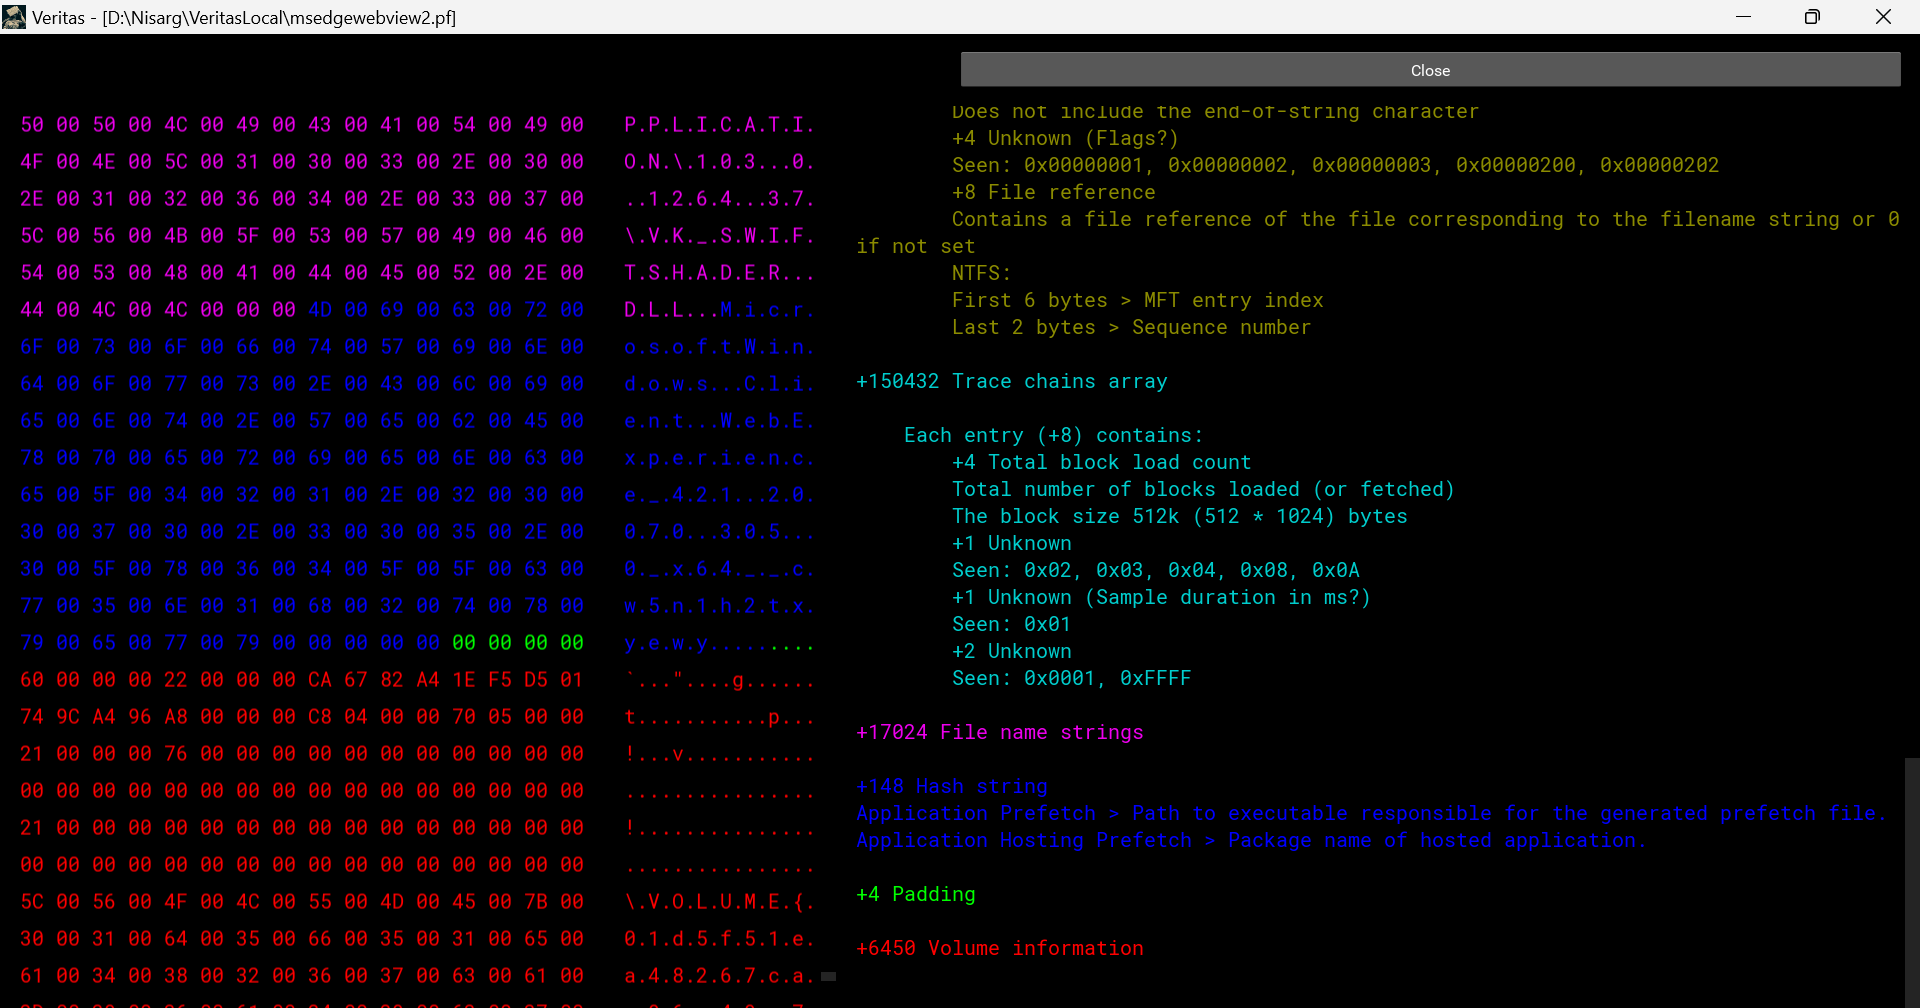
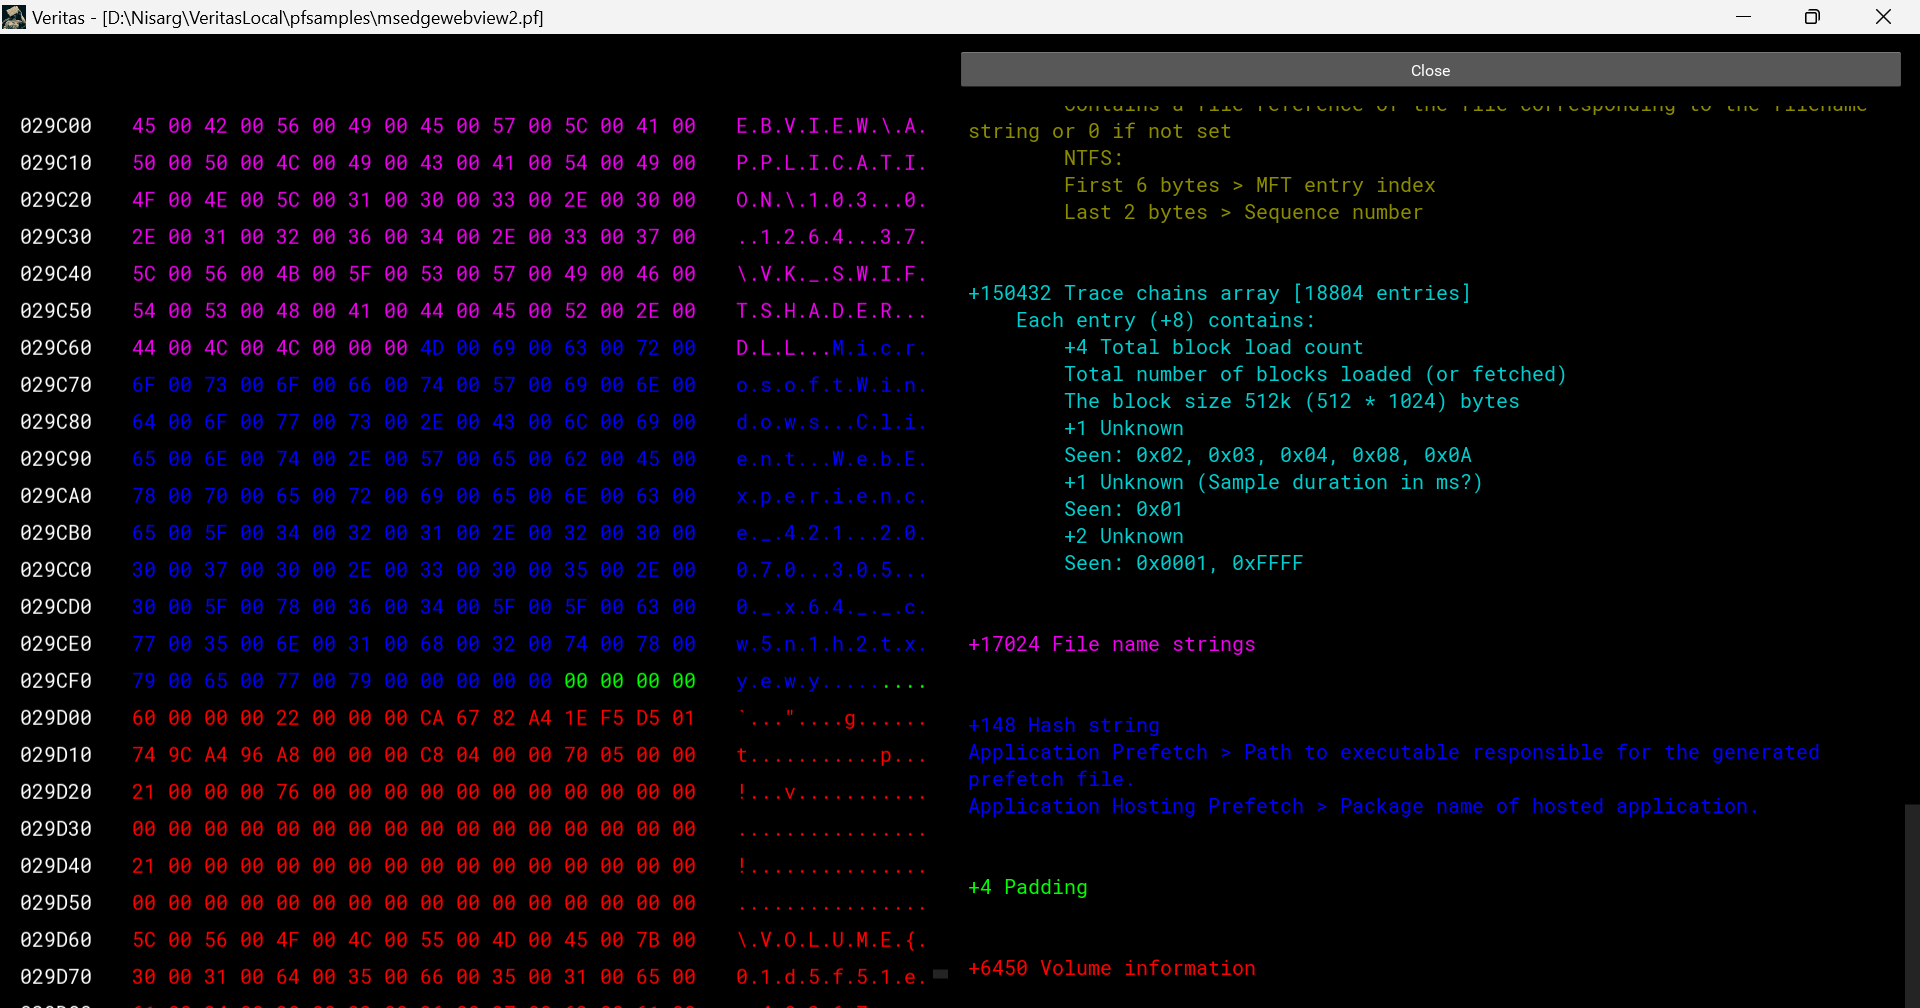
Add Offset Column + Optimizations

diff --git a/prefetch.py b/prefetch.py
@@ -13,16 +13,13 @@ def prefetchTemplate(file_path):
 	prefetchsizes = []
 	prefetchmarkers = []
 
-	getdata = readFile(file_path)
-	formattedhexdata = getdata[0]
-	formattedasciidata = getdata[1]
-	hexdata = getdata[2]
+	formattedhexdata, formattedasciidata, hexdata = readFile(file_path)
 #######################################################################################################
 	# COMMON SECTION. #
 	###################
 	fileheader = [[1, 4], [5, 4], [9, 4], [13, 4], [17, 60], [77, 4], [81, 4]]
 	fileheadersize = 84
-	prefetchmarkers.append("+4  Format version    \n17 (0x11) > Windows XP, Windows 2003    \n23 (0x17) > Windows Vista, Windows 7    \n26 (0x1A) > Windows 8.1    \n30 (0x1E) > Windows 10\n")
+	prefetchmarkers.append("+4  Format version    \n    17 (0x00000011) > Windows XP, Windows 2003    \n    23 (0x00000017) > Windows Vista, Windows 7    \n    26 (0x0000001A) > Windows 8.1    \n    30 (0x0000001E) > Windows 10\n")
 	prefetchmarkers.append("\n+4  Signature\n")
 	prefetchmarkers.append("\n+4  Unknown\nSeen: 0x0000000F, 0x00000011\n")
 	prefetchmarkers.append("\n+4  File size\n")
@@ -30,7 +27,7 @@ def prefetchTemplate(file_path):
 	prefetchmarkers.append("\n+4 Prefetch hash\nThis value should correspond with the hash in the Prefetch filename\n")
 	prefetchmarkers.append("\n+4 Unknown (flags?)\n0x01 > is boot prefetch\n(Seen in: NTOSBOOT-B00DFAAD.pf, Op-EXPLORER.EXE-A80E4F97-000000F5.pf)\n")
 
-	prefetchmarkers.append("\n+4 File metrics array offset\nThe offset is relative to the start of the file\n0x98 > Version 17\n0xF0 > Version 23\n0x3001 > Version 26\n0x3001 > Version 30, Variant 1\n0x2801 > Version 30, Variant 2\n")
+	prefetchmarkers.append("\n+4 File metrics array offset\n    The offset is relative to the start of the file\n    0x00000098 > Version 17\n    0x000000F0 > Version 23\n    0x00000130 > Version 26\n    0x00000130 > Version 30, Variant 1\n    0x00000128 > Version 30, Variant 2\n")
 	prefetchmarkers.append("\n+4 Number of file metrics entries\n")
 	prefetchmarkers.append("\n+4 Trace chains array offset\nThe offset is relative to the start of the file\n")
 	prefetchmarkers.append("\n+4 Number of trace chains array entries\n")
@@ -40,9 +37,9 @@ def prefetchTemplate(file_path):
 	prefetchmarkers.append("\n+4 Number of volumes\n")
 	prefetchmarkers.append("\n+4 Volumes information size\n")
 
-	sharedFileMetricsByVer232630 = "\n    Each entry (+32) contains:\n        +4 Unknown (Prefetch start time in ms?)\n        Could be the index into the trace chain array as well, is this relationship implicit or explicit?\n        +4 Unknown (Prefetch duration in ms?)\n        Could be the number of entries in the trace chain as well, is this relationship implicit or explicit?\n        +4 Unknown (Average prefetch duration in ms?)\n        +4 Filename string offset\n        The offset is relative to the start of the filename strings\n        +4 Filename string number of characters\n        Does not include the end-of-string character\n        +4 Unknown (Flags?)\n        Seen: 0x00000001, 0x00000002, 0x00000003, 0x00000200, 0x00000202\n        +8 File reference\n        Contains a file reference of the file corresponding to the filename string or 0 if not set\n        NTFS:\n        First 6 bytes > MFT entry index\n        Last 2 bytes > Sequence number\n"
+	sharedFileMetricsByVer232630 = "    Each entry (+32) contains:\n        +4 Unknown (Prefetch start time in ms?)\n        Could be the index into the trace chain array as well, is this relationship implicit or explicit?\n        +4 Unknown (Prefetch duration in ms?)\n        Could be the number of entries in the trace chain as well, is this relationship implicit or explicit?\n        +4 Unknown (Average prefetch duration in ms?)\n        +4 Filename string offset\n        The offset is relative to the start of the filename strings\n        +4 Filename string number of characters\n        Does not include the end-of-string character\n        +4 Unknown (Flags?)\n        Seen: 0x00000001, 0x00000002, 0x00000003, 0x00000200, 0x00000202\n        +8 File reference\n        Contains a file reference of the file corresponding to the filename string or 0 if not set\n        NTFS:\n        First 6 bytes > MFT entry index\n        Last 2 bytes > Sequence number\n"
 
-	sharedTraceChainsByVer172326 = "\n    Each entry (+12) contains:\n        +4 Next array entry index\n        Contains the next trace chain array entry index in the chain, where the first entry index starts with 0, or -1 (0xFFFFFFFF) for the end-of-chain.\n        +4 Total block load count\n        Total number of blocks loaded (or fetched)\n        The block size 512k (512 * 1024) bytes\n        +1 Unknown\n        Seen: 0x02, 0x03, 0x04, 0x08, 0x0A\n        +1 Unknown (Sample duration in ms?)\n        Seen: 0x01\n        +2 Unknown\n        Seen: 0x0001, 0xFFFF\n"
+	sharedTraceChainsByVer172326 = "    Each entry (+12) contains:\n        +4 Next array entry index\n        Contains the next trace chain array entry index in the chain, where the first entry index starts with 0, or -1 (0xFFFFFFFF) for the end-of-chain.\n        +4 Total block load count\n        Total number of blocks loaded (or fetched)\n        The block size 512k (512 * 1024) bytes\n        +1 Unknown\n        Seen: 0x02, 0x03, 0x04, 0x08, 0x0A\n        +1 Unknown (Sample duration in ms?)\n        Seen: 0x01\n        +2 Unknown\n        Seen: 0x0001, 0xFFFF\n"
 
 ######################################################################
 	# VERSION SPECIFIC. #
@@ -70,12 +67,12 @@ def prefetchTemplate(file_path):
 			
 			filemetricssize = numberoffilemetricsentries * 20
 			filemetrics = [[1, filemetricssize]]
-			prefetchmarkers.append("\n+{} File metrics array\n\n    Each entry (+20) contains:\n        +4 Unknown (Prefetch start time in ms?)\n        Could be the index into the trace chain array as well, is this relationship implicit or explicit?\n        +4 Unknown (Prefetch duration in ms?)\n        Could be the number of entries in the trace chain as well, is this relationship implicit or explicit?\n        +4 Filename string offset\n        The offset is relative to the start of the filename strings\n        +4 Filename string number of characters\n        Does not include the end-of-string character\n        +4 Unknown (Flags?)\n".format(filemetricssize))
+			prefetchmarkers.append("\n+{} File metrics array [{} entries]\n    Each entry (+20) contains:\n        +4 Unknown (Prefetch start time in ms?)\n        Could be the index into the trace chain array as well, is this relationship implicit or explicit?\n        +4 Unknown (Prefetch duration in ms?)\n        Could be the number of entries in the trace chain as well, is this relationship implicit or explicit?\n        +4 Filename string offset\n        The offset is relative to the start of the filename strings\n        +4 Filename string number of characters\n        Does not include the end-of-string character\n        +4 Unknown (Flags?)\n".format(filemetricssize, numberoffilemetricsentries))
 
 			tracechainssize = numberoftracechainsentries * 12
 			tracechains = [[1, tracechainssize]]
 
-			prefetchmarkers.append("\n+{} Trace chains array\n".format(tracechainssize)+sharedTraceChainsByVer172326)
+			prefetchmarkers.append("\n+{} Trace chains array [{} entries]\n".format(tracechainssize, numberoftracechainsentries)+sharedTraceChainsByVer172326)
 
 		case "17000000":
 			# Was Vista or 7 > PFV 23
@@ -89,10 +86,10 @@ def prefetchTemplate(file_path):
 			prefetchmarkers.append("\n+80 Unknown (Empty values)\n")
 			filemetricssize = numberoffilemetricsentries * 32
 			filemetrics = [[1, filemetricssize]]
-			prefetchmarkers.append("\n+{} File metrics array\n".format(filemetricssize)+sharedFileMetricsByVer232630)
+			prefetchmarkers.append("\n+{} File metrics array [{} entries]\n".format(filemetricssize, numberoffilemetricsentries)+sharedFileMetricsByVer232630)
 			tracechainssize = numberoftracechainsentries * 12
 			tracechains = [[1, tracechainssize]]
-			prefetchmarkers.append("\n+{} Trace chains array\n".format(tracechainssize)+sharedTraceChainsByVer172326)
+			prefetchmarkers.append("\n+{} Trace chains array [{} entries]\n".format(tracechainssize, numberoftracechainsentries)+sharedTraceChainsByVer172326)
 
 		case "1A000000":
 			# Was 8.1 > PFV 26
@@ -107,10 +104,10 @@ def prefetchTemplate(file_path):
 			prefetchmarkers.append("\n+88 Unknown (Empty values)\n")
 			filemetricssize = numberoffilemetricsentries * 32
 			filemetrics = [[1, filemetricssize]]
-			prefetchmarkers.append("\n+{} File metrics array\n".format(filemetricssize)+sharedFileMetricsByVer232630)
+			prefetchmarkers.append("\n+{} File metrics array [{} entries]\n".format(filemetricssize, numberoffilemetricsentries)+sharedFileMetricsByVer232630)
 			tracechainssize = numberoftracechainsentries * 12
 			tracechains = [[1, tracechainssize]]
-			prefetchmarkers.append("\n+{} Trace chains array\n".format(tracechainssize)+sharedTraceChainsByVer172326)
+			prefetchmarkers.append("\n+{} Trace chains array [{} entries]\n".format(tracechainssize, numberoftracechainsentries)+sharedTraceChainsByVer172326)
 
 		case "1E000000":
 			# Was 10 or 11 > PFV 30
@@ -153,7 +150,7 @@ def prefetchTemplate(file_path):
 				prefetchmarkers.append("\n+84 Unknown (Empty values)\n")
 			filemetricssize = numberoffilemetricsentries * 32
 			filemetrics = [[1, filemetricssize]]
-			prefetchmarkers.append("\n+{} File metrics array\n".format(filemetricssize)+sharedFileMetricsByVer232630)
+			prefetchmarkers.append("\n+{} File metrics array [{} entries]\n".format(filemetricssize, numberoffilemetricsentries)+sharedFileMetricsByVer232630)
 
 			if hashstringexists:
 				hashstringoffsetlocation = fileheadersize + fileinfosize - 76 - 4 - 4
@@ -164,7 +161,7 @@ def prefetchTemplate(file_path):
 			tracechainssize = numberoftracechainsentries * 8
 			tracechains = [[1, tracechainssize]]
 			
-			prefetchmarkers.append("\n+{} Trace chains array\n\n    Each entry (+8) contains:\n        +4 Total block load count\n        Total number of blocks loaded (or fetched)\n        The block size 512k (512 * 1024) bytes\n        +1 Unknown\n        Seen: 0x02, 0x03, 0x04, 0x08, 0x0A\n        +1 Unknown (Sample duration in ms?)\n        Seen: 0x01\n        +2 Unknown\n        Seen: 0x0001, 0xFFFF\n".format(tracechainssize))
+			prefetchmarkers.append("\n+{} Trace chains array [{} entries]\n    Each entry (+8) contains:\n        +4 Total block load count\n        Total number of blocks loaded (or fetched)\n        The block size 512k (512 * 1024) bytes\n        +1 Unknown\n        Seen: 0x02, 0x03, 0x04, 0x08, 0x0A\n        +1 Unknown (Sample duration in ms?)\n        Seen: 0x01\n        +2 Unknown\n        Seen: 0x0001, 0xFFFF\n".format(tracechainssize, numberoftracechainsentries))
 
 	sumtilltracechains = fileheadersize + fileinfosize + filemetricssize + tracechainssize	
 	sumtillfilenamestrings = filenamestringssize + filenamestringsoffset

diff --git a/loader.py b/loader.py
@@ -5,9 +5,10 @@ from primer import *
 	# TODO: #
 	#########
 
-def loadFile(file_path, callback, popup):
+def loadFile(file_path, bytecount, callback, popup):
 	first = []
 	second = []
+	offsetdata = getOffsets(int(bytecount))
 	hexdata = []
 	asciidata = []
 	templatedata = []
@@ -21,25 +22,13 @@ def loadFile(file_path, callback, popup):
 
 	if isPrefetch(hexdata):
 		artifactsupported = True
-		prefetch = prefetchTemplate(file_path)
-		hexdata = prefetch[0]
-		asciidata = prefetch[1]
-		templatedata = prefetch[2]
-		markerdata = prefetch[3]
+		hexdata, asciidata, templatedata, markerdata = prefetchTemplate(file_path)
 	elif isMFT(hexdata):
 		artifactsupported = True
-		mft = mftTemplate(file_path)
-		hexdata = mft[0]
-		asciidata = mft[1]
-		templatedata = mft[2]
-		markerdata = mft[3]
+		hexdata, asciidata, templatedata, markerdata = mftTemplate(file_path)
 	elif isRegistry(hexdata):
 		artifactsupported = True
-		registry = registryTemplate(file_path)
-		hexdata = registry[0]
-		asciidata = registry[1]
-		templatedata = registry[2]
-		markerdata = registry[3]
+		hexdata, asciidata, templatedata, markerdata = registryTemplate(file_path)
 	else:
 		callback(first, second, artifactsupported, file_path, popup)
 
@@ -95,15 +84,11 @@ def loadFile(file_path, callback, popup):
 		hexdata = fixHex(hexdata)
 		asciidata = fixAscii(asciidata)
 
-		# Construct a dictionary for RecycleViews.
-		def joinHexAscii(hdata, adata):
-			return {"hextext": hdata, "asciitext": adata}
-
-		# Combine hex and ascii for a single RecycleView so they share common scrolling.
-		for h, a in zip(hexdata.split("\n"), asciidata.split("\n")):
-			first.append(joinHexAscii(h, a))
-		# 
-		second = [{"text": "{}".format(line)} for line in markerdata.split("\t")]
+		# Combine offset, hex and ascii for a single RecycleView so they share common scrolling.
+		for o, h, a in zip(offsetdata, hexdata.split("\n"), asciidata.split("\n")):
+			first.append(joinOffsetHexAscii(o, h, a))
+		# Again leveraging Kivy not minding missing closing color tags, markerdata is split on it.
+		second = [{"text": "{}".format(line)} for line in markerdata.split("[/color]")]
 		callback(first, second, artifactsupported, file_path, popup)
 #######################################################################################################
 

diff --git a/primer.py b/primer.py
@@ -24,7 +24,7 @@ def listToString(s):
 def readPartialFile(file_path, numberofbytestoread):
     with open(file_path, 'rb') as f:
         data = f.read(numberofbytestoread)
-        hexdata = [format(byte, '02x') for byte in data]
+        hexdata = [format(byte, '02X') for byte in data]
     return hexdata
 
 def readFile(file_path):
@@ -48,6 +48,14 @@ def readFile(file_path):
 			formattedhexdata.append(hex_str)
 			formattedasciidata.append(ascii_str)
 	return formattedhexdata, formattedasciidata, hexdata
+
+def joinOffsetHexAscii(offsetdata, hexdata, asciidata):
+			return {"offsettext": offsetdata, "hextext": hexdata, "asciitext": asciidata}
+
+def getOffsets(bytecount):
+	bytecount += 16 if bytecount % 16 != 0 else 0
+	offsetdata = [f"{i:06X}" for i in range(0, bytecount, 16)]
+	return offsetdata
 
 def fixHex(data):
 	bi = 0

diff --git a/veritas.py b/veritas.py
@@ -6,6 +6,7 @@ import binascii
 import kivy
 import webbrowser
 import loader
+import os
 from kivy.app import App
 from kivy.uix.widget import Widget
 from kivy.properties import ObjectProperty
@@ -28,7 +29,8 @@ class MyWidget(Widget):
 
 	def loadFileCallback(self, file_path, popup):
 		if file_path:
-			loader.loadFile(file_path, self.updateRecycleViews, popup)
+			bytecount = os.path.getsize(file_path)
+			loader.loadFile(file_path, bytecount, self.updateRecycleViews, popup)
 
 	def updateRecycleViews(self, first_data, second_data, artifactsupported, file_path, popup):
 		if artifactsupported:
